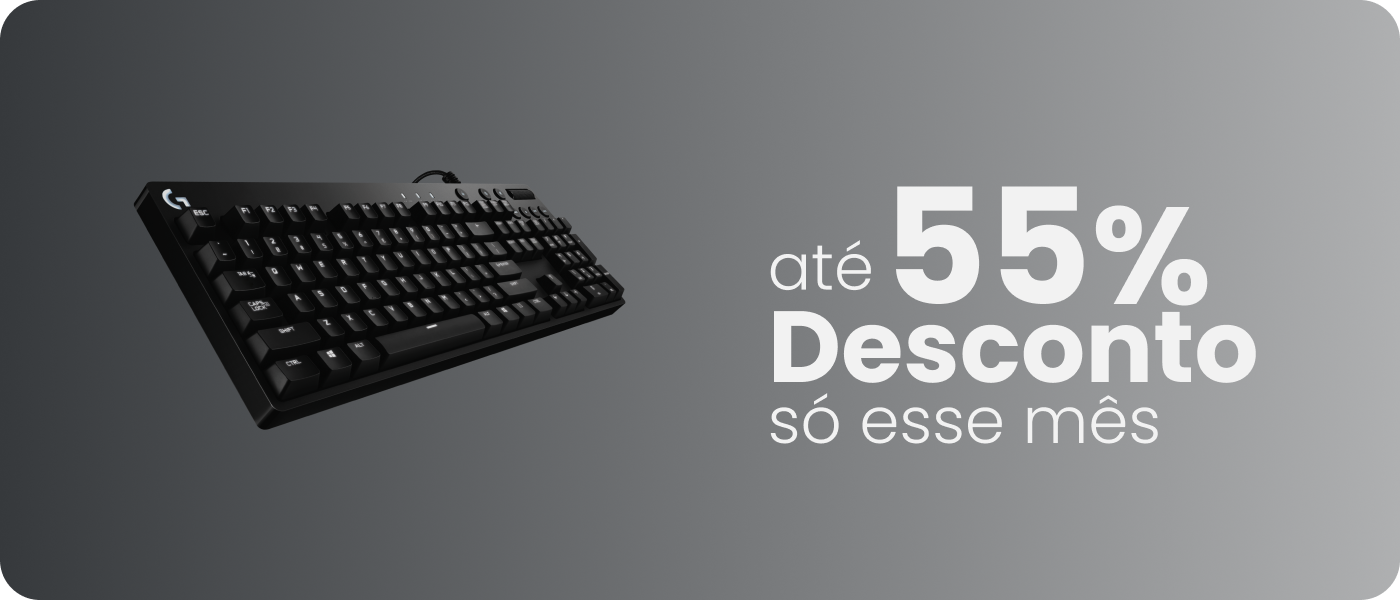
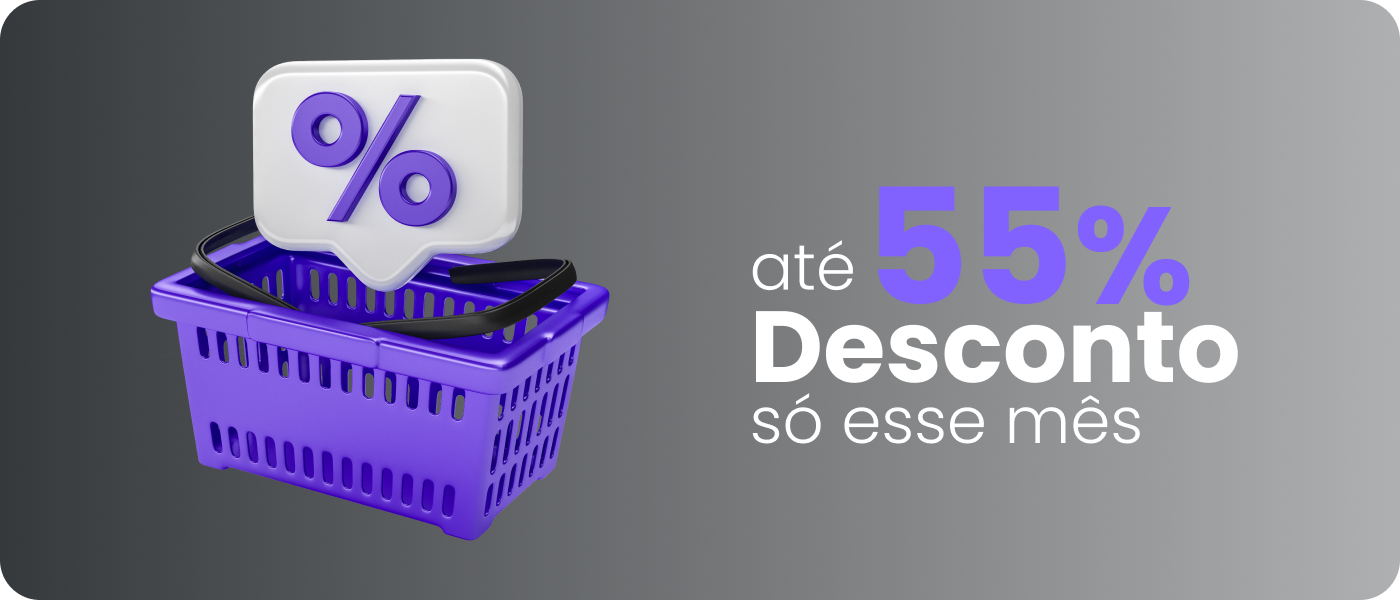
feat: show total, subtotal and total discount

Changed region(s): [[0.0921, 0.09, 0.4607, 0.9], [0.5221, 0.3, 0.9214, 0.75]]

diff --git a/src/components/ui/cart-item.tsx b/src/components/ui/cart-item.tsx
@@ -28,64 +28,62 @@ const CartItem = ({ product }: CartItemProps) => {
   };
 
   return (
-    <div className="flex items-center">
-      <div className="flex items-center gap-4">
-        <div className="flex h-[77px] w-[77px] items-center justify-center rounded-lg bg-accent">
-          <Image
-            src={product.imageUrls[0]}
-            alt={product.name}
-            width={0}
-            height={0}
-            sizes="100vw"
-            className="h-auto max-h-[70%] w-auto max-w-[80%] object-contain"
-          />
-        </div>
+    <div className="flex items-center gap-4">
+      <div className="flex h-[84px] w-[84px] items-center justify-center rounded-lg bg-accent">
+        <Image
+          src={product.imageUrls[0]}
+          alt={product.name}
+          width={0}
+          height={0}
+          sizes="100vw"
+          className="h-auto max-h-[70%] w-auto max-w-[80%] object-contain"
+        />
+      </div>
 
-        <div className="flex flex-col">
-          <p className="text-xs">{product.name}</p>
+      <div className="flex w-full flex-1 flex-col">
+        <p className="max-w-[90%] overflow-hidden text-ellipsis whitespace-nowrap text-xs">
+          {product.name}
+        </p>
 
-          <div className="flex items-center gap-2">
-            <p className="text-sm font-bold">
-              R${product.totalPrice.toFixed(2)}
+        <div className="flex items-center gap-2">
+          <p className="text-sm font-bold">R${product.totalPrice.toFixed(2)}</p>
+          {product.discountPercentage > 0 && (
+            <p className="text-xs line-through opacity-75">
+              R$ {Number(product.basePrice).toFixed(2)}
             </p>
-            {product.discountPercentage > 0 && (
-              <p className="text-xs line-through opacity-75">
-                R$ {Number(product.basePrice).toFixed(2)}
-              </p>
-            )}
-          </div>
-          <div className="mt-4 flex  items-center justify-between">
-            <div className="flex items-center gap-1">
-              <Button
-                size="icon"
-                variant="outline"
-                className="h-8 w-8"
-                onClick={handleDecreaseProductQuantityClick}
-              >
-                <ArrowLeft size={16} />
-              </Button>
+          )}
+        </div>
+        <div className="mt-4 flex  items-center justify-between">
+          <div className="flex items-center gap-1">
+            <Button
+              size="icon"
+              variant="outline"
+              className="h-8 w-8"
+              onClick={handleDecreaseProductQuantityClick}
+            >
+              <ArrowLeft size={16} />
+            </Button>
 
-              <span className="text-xs">{product.quantity}</span>
-
-              <Button
-                size="icon"
-                variant="outline"
-                className="h-8 w-8"
-                onClick={handleIncreaseProductQuantityClick}
-              >
-                <ArrowRight size={16} />
-              </Button>
-            </div>
+            <span className="text-xs">{product.quantity}</span>
 
             <Button
               size="icon"
               variant="outline"
               className="h-8 w-8"
-              onClick={handleRemoveProductFromCartClick}
+              onClick={handleIncreaseProductQuantityClick}
             >
-              <TrashIcon size={16} />
+              <ArrowRight size={16} />
             </Button>
           </div>
+
+          <Button
+            size="icon"
+            variant="outline"
+            className="h-8 w-8"
+            onClick={handleRemoveProductFromCartClick}
+          >
+            <TrashIcon size={16} />
+          </Button>
         </div>
       </div>
     </div>

diff --git a/src/components/ui/cart.tsx b/src/components/ui/cart.tsx
@@ -4,9 +4,10 @@ import { useContext } from "react";
 import { CartContext } from "@/providers/cart";
 import CartItem from "./cart-item";
 import computeProductTotalPrice from "@/helpers/products";
+import { Separator } from "./separator";
 
 const Cart = () => {
-  const { products } = useContext(CartContext);
+  const { products, subtotal, total, totalDiscount } = useContext(CartContext);
   return (
     <div className="flex flex-col gap-8">
       <Badge
@@ -18,14 +19,49 @@ const Cart = () => {
       </Badge>
 
       <div className="flex flex-col gap-5">
-        {products.map((product) => {
-          return (
-            <CartItem
-              key={product.id}
-              product={computeProductTotalPrice(product as any) as any}
-            />
-          );
-        })}
+        {products.length > 0 ? (
+          products.map((product) => {
+            return (
+              <CartItem
+                key={product.id}
+                product={computeProductTotalPrice(product as any) as any}
+              />
+            );
+          })
+        ) : (
+          <p className="text-center text-sm font-semibold opacity-75">
+            Carrinho vazio.
+          </p>
+        )}
+      </div>
+
+      <div className="flex flex-col gap-3">
+        <Separator />
+        <div className="flex items-center justify-between">
+          <p className="text-xs">Subtotal</p>
+          <p className="text-xs">R$ {subtotal.toFixed(2)}</p>
+        </div>
+
+        <Separator />
+
+        <div className="flex items-center justify-between">
+          <p className="text-xs">Entrega</p>
+          <p className="text-xs uppercase">grátis</p>
+        </div>
+
+        <Separator />
+
+        <div className="flex items-center justify-between">
+          <p className="text-xs">Descontos</p>
+          <p className="text-xs">- R$ {totalDiscount.toFixed(2)}</p>
+        </div>
+
+        <Separator />
+
+        <div className="flex items-center justify-between">
+          <p className="text-sm font-bold">Total</p>
+          <p className="text-sm font-bold">R$ {total.toFixed(2)}</p>
+        </div>
       </div>
     </div>
   );

diff --git a/src/providers/cart.tsx b/src/providers/cart.tsx
@@ -1,7 +1,7 @@
 "use client";
 
 import products, { ProductWithTotalPrice } from "@/helpers/products";
-import { ReactNode, createContext, useState } from "react";
+import { ReactNode, createContext, useMemo, useState } from "react";
 
 export interface CartProduct extends ProductWithTotalPrice {
   quantity: number;
@@ -12,6 +12,9 @@ interface ICartContext {
   cartTotalPrice: number;
   cartBasePrice: number;
   cartTotalDiscount: number;
+  subtotal: number;
+  total: number;
+  totalDiscount: number;
   AddProductToCart: (product: CartProduct) => void;
   decreaseProductQuantity: (productId: string) => void;
   increaseProductQuantity: (productId: string) => void;
@@ -23,6 +26,9 @@ export const CartContext = createContext<ICartContext>({
   cartTotalPrice: 0,
   cartBasePrice: 0,
   cartTotalDiscount: 0,
+  subtotal: 0,
+  total: 0,
+  totalDiscount: 0,
   AddProductToCart: () => {},
   decreaseProductQuantity: () => {},
   increaseProductQuantity: () => {},
@@ -31,6 +37,20 @@ export const CartContext = createContext<ICartContext>({
 
 const CartProvider = ({ children }: { children: ReactNode }) => {
   const [products, setProducts] = useState<CartProduct[]>([]);
+
+  const subtotal = useMemo(() => {
+    return products.reduce((acc, product) => {
+      return acc + Number(product.basePrice);
+    }, 0);
+  }, [products]);
+
+  const total = useMemo(() => {
+    return products.reduce((acc, product) => {
+      return acc + product.totalPrice;
+    }, 0);
+  }, [products]);
+
+  const totalDiscount = subtotal - total;
 
   const AddProductToCart = (product: CartProduct) => {
     const productIsAlreadyOnCart = products.some(
@@ -101,6 +121,9 @@ const CartProvider = ({ children }: { children: ReactNode }) => {
         cartBasePrice: 0,
         cartTotalDiscount: 0,
         cartTotalPrice: 0,
+        subtotal,
+        total,
+        totalDiscount,
         AddProductToCart,
         decreaseProductQuantity,
         increaseProductQuantity,

diff --git a/src/components/ui/header.tsx b/src/components/ui/header.tsx
@@ -121,7 +121,7 @@ const Header = () => {
             quality={100}
             className="h-auto max-h-5 w-fit object-contain"
           />
-          <p className="-mt-1 text-end font-mono text-[10px] font-medium uppercase text-primary-foreground">
+          <p className="-mt-1 text-end font-mono text-xs font-semibold uppercase text-primary">
             Store
           </p>
         </div>

diff --git a/tailwind.config.js b/tailwind.config.js
@@ -18,7 +18,7 @@ module.exports = {
     extend: {
       backgroundImage: {
         "category-item-gradient":
-          "linear-gradient(270deg, #36393C 0%, #36393C 0.01%, rgba(54, 57, 60, 0.40) 100%)",
+          "linear-gradient(45deg, #5033C3 0%, rgba(80, 51, 195, 0.20) 100%);",
       },
       colors: {
         border: "hsl(var(--border))",

diff --git a/src/app/globals.css b/src/app/globals.css
@@ -13,7 +13,7 @@
     --popover: 0 0% 4%;
     --popover-foreground: 0 0% 100%;
 
-    --primary: 0, 0%, 31%;
+    --primary: 252 59% 48%;
     --primary-foreground: 0 0% 100%;
 
     --secondary: 0 0% 9%;
